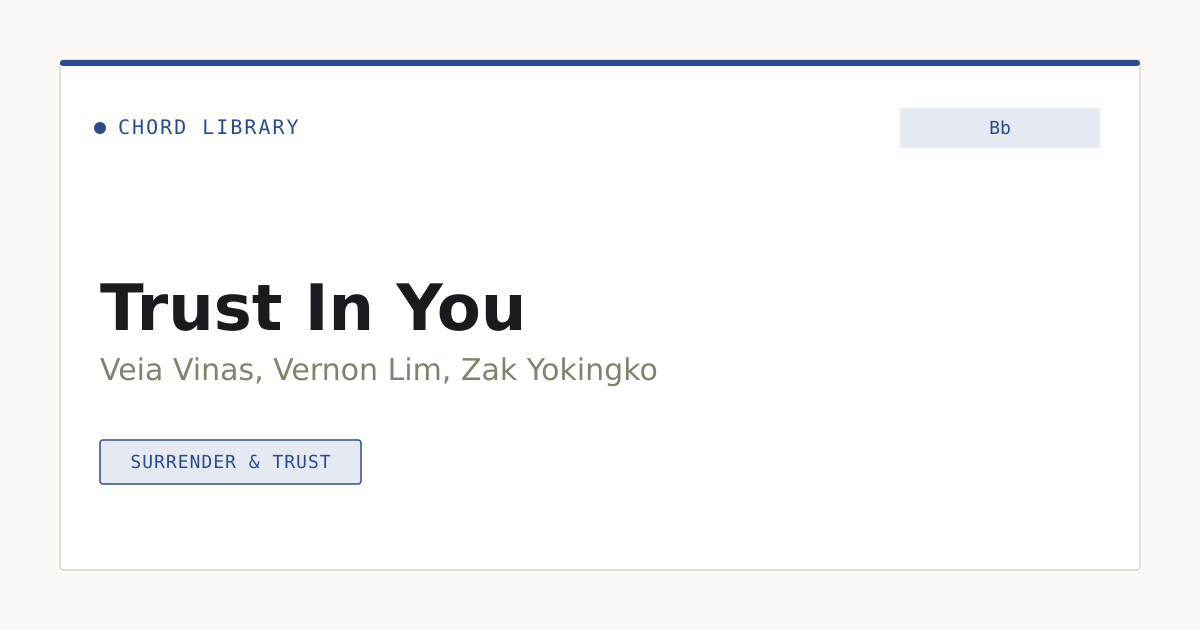
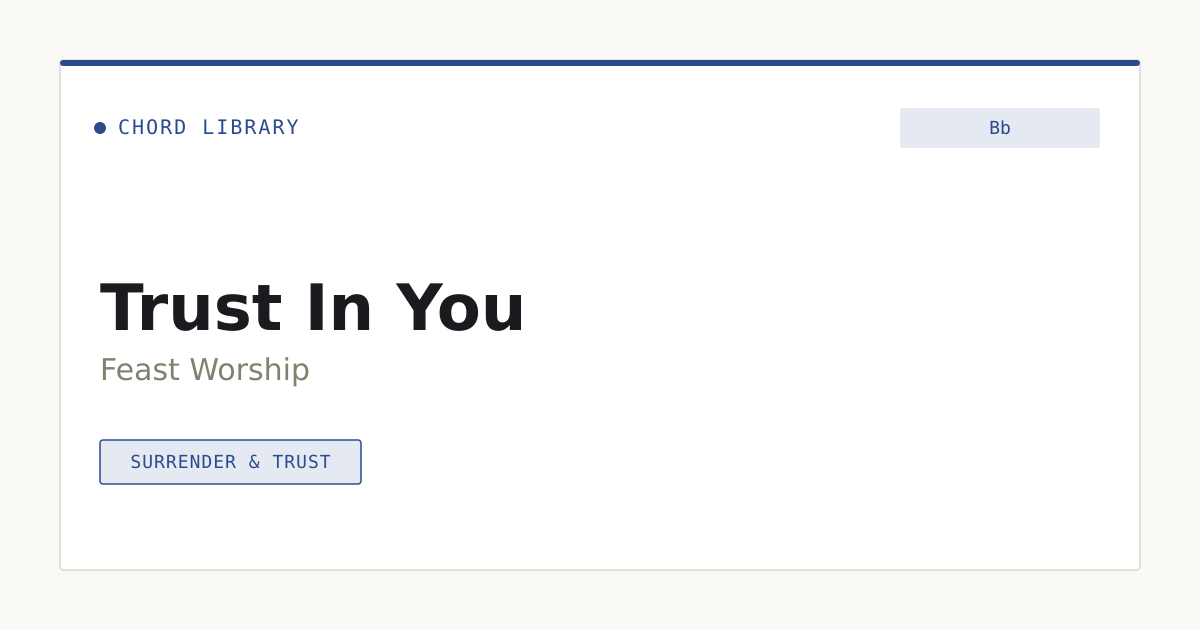
Change artist of 'Trust In You' to Feast Worship

Changed region(s): [[0.0617, 0.573, 0.555, 0.6032]]

diff --git a/worship-chord-library/site/index.html b/worship-chord-library/site/index.html
@@ -41,7 +41,14 @@
           <h2>Recently added</h2>
         </div>
         <div class="recent-grid">
-          <a class="card" href="songs/i-can-trust-you.html" data-search="i can trust you feast worship worship song surrender & trust" data-category="Worship Song">
+          <a class="card" href="songs/all-creation-sing.html" data-search="all creation sing feast worship worship song praise & celebration" data-category="Worship Song">
+      <div class="dot"></div>
+      <div class="title">All Creation Sing</div>
+      <span class="callnum">A</span>
+      <div class="meta">Feast Worship</div>
+      <div class="card-badges"><span class="tag category-tag">Worship Song</span><span class="tag friendly-hint">Open chords</span></div>
+    </a>
+<a class="card" href="songs/i-can-trust-you.html" data-search="i can trust you feast worship worship song surrender & trust" data-category="Worship Song">
       <div class="dot"></div>
       <div class="title">I Can Trust You</div>
       <span class="callnum">D</span>
@@ -54,13 +61,6 @@
       <span class="callnum">F·CAPO3</span>
       <div class="meta">Feast Worship</div>
       <div class="card-badges"><span class="tag category-tag">Worship Song</span><span class="tag capo-hint">Capo 3</span></div>
-    </a>
-<a class="card" href="songs/all-creation-sing.html" data-search="all creation sing feast worship worship song praise & celebration" data-category="Worship Song">
-      <div class="dot"></div>
-      <div class="title">All Creation Sing</div>
-      <span class="callnum">A</span>
-      <div class="meta">Feast Worship</div>
-      <div class="card-badges"><span class="tag category-tag">Worship Song</span><span class="tag friendly-hint">Open chords</span></div>
     </a>
 <a class="card" href="songs/unang-alay.html" data-search="unang alay rey magnaye liturgical songs offertory" data-category="Liturgical Songs">
       <div class="dot"></div>
@@ -81,7 +81,7 @@
 
   <div class="catalog-head">
     <h2>Catalog</h2>
-    <span class="catalog-count" id="catalog-count">8 charts · 6 artists</span>
+    <span class="catalog-count" id="catalog-count">8 charts · 5 artists</span>
   </div>
   <div id="catalog-list">
     
@@ -106,6 +106,13 @@
       <span class="callnum">F·CAPO3</span>
       <div class="meta">Feast Worship</div>
       <div class="card-badges"><span class="tag category-tag">Worship Song</span><span class="tag capo-hint">Capo 3</span></div>
+    </a>
+<a class="card" href="songs/trust-in-you.html" data-search="trust in you feast worship worship song surrender & trust" data-category="Worship Song">
+      <div class="dot"></div>
+      <div class="title">Trust In You</div>
+      <span class="callnum">Bb</span>
+      <div class="meta">Feast Worship</div>
+      <div class="card-badges"><span class="tag category-tag">Worship Song</span><span class="tag capo-hint">Capo 1</span></div>
     </a>
     
 
@@ -136,16 +143,6 @@
       <span class="callnum">G</span>
       <div class="meta">Unknown Artist</div>
       <div class="card-badges"><span class="tag category-tag">Liturgical Songs</span><span class="tag friendly-hint">Open chords</span></div>
-    </a>
-    
-
-      <div class="section-label" data-artist-section>Veia Vinas, Vernon Lim, Zak Yokingko</div>
-      <a class="card" href="songs/trust-in-you.html" data-search="trust in you veia vinas, vernon lim, zak yokingko worship song surrender & trust" data-category="Worship Song">
-      <div class="dot"></div>
-      <div class="title">Trust In You</div>
-      <span class="callnum">Bb</span>
-      <div class="meta">Veia Vinas, Vernon Lim, Zak Yokingko</div>
-      <div class="card-badges"><span class="tag category-tag">Worship Song</span><span class="tag capo-hint">Capo 1</span></div>
     </a>
     
 

diff --git a/worship-chord-library/site/songs/trust-in-you.html b/worship-chord-library/site/songs/trust-in-you.html
@@ -13,7 +13,7 @@
 <link rel="stylesheet" href="../assets/style.css">
 
 <!-- Social preview -->
-<meta property="og:title" content="Trust In You — Veia Vinas, Vernon Lim, Zak Yokingko">
+<meta property="og:title" content="Trust In You — Feast Worship">
 <meta property="og:description" content="Post Chorus · Tag · Last Chorus">
 <meta property="og:image" content="https://allenvincentlucas.github.io/church-ministry/worship-chord-library/assets/cards/trust-in-you.png">
 <meta property="og:url" content="https://allenvincentlucas.github.io/church-ministry/worship-chord-library/songs/trust-in-you.html">
@@ -49,7 +49,7 @@
   </div></div>
         <div class="media-col"><div class="meta-panel">
     <h2 class="viewer-title">Trust In You</h2>
-    <p class="viewer-artist">Veia Vinas, Vernon Lim, Zak Yokingko</p>
+    <p class="viewer-artist">Feast Worship</p>
     <div class="tags"><span class="tag category-tag">Worship Song</span><span class="tag">KEY <span id="current-key">Bb</span></span><span class="tag">70 BPM</span><span class="tag theme">Surrender & Trust</span></div>
     <p class="original-key-note">Original key: <strong>Bb</strong> (no capo)</p>
   </div></div>
